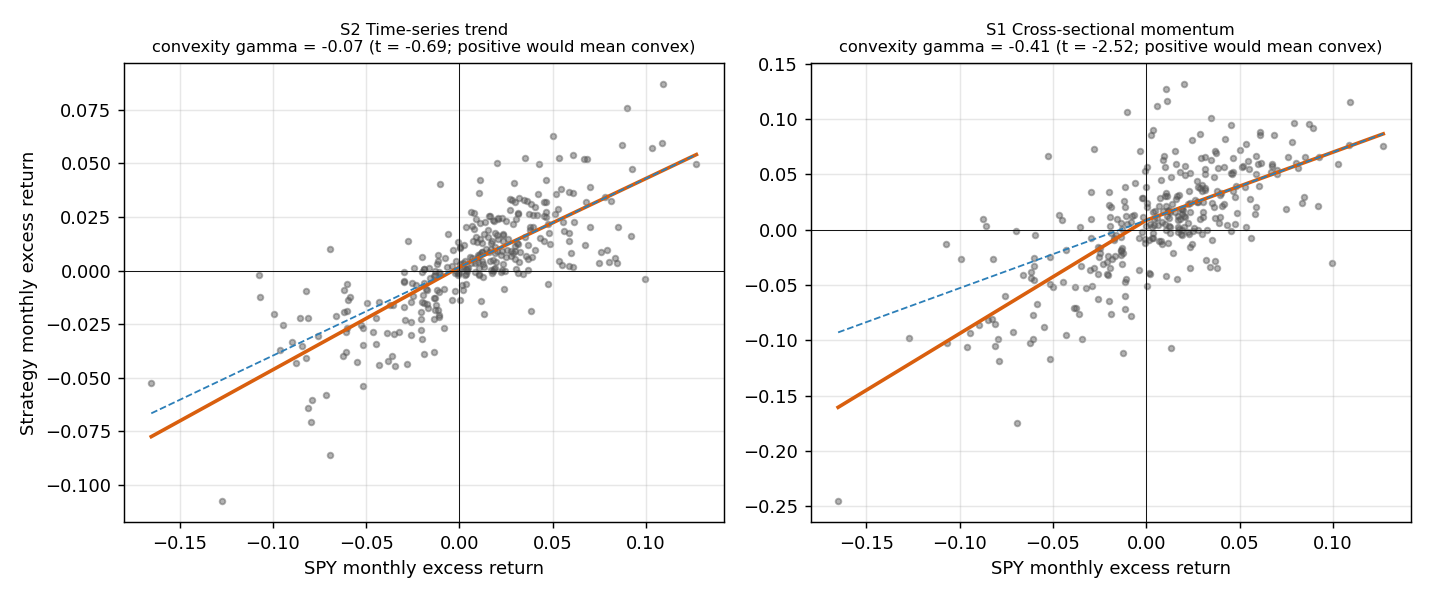
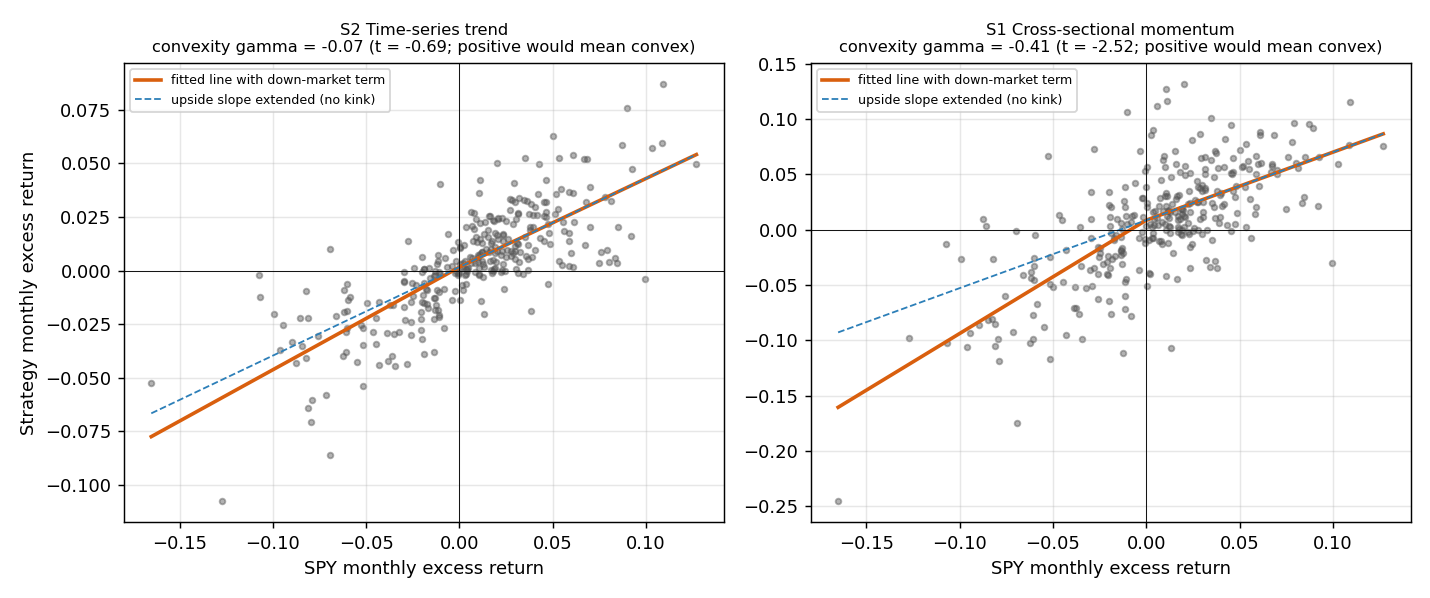
Regime study: add legend and post-hoc robustness check for S1 anti-convexity

Changed region(s): [[0.5538, 0.0903, 0.7692, 0.2107], [0.0923, 0.0903, 0.2769, 0.2107]]

diff --git a/analysis/make_regime_note.py b/analysis/make_regime_note.py
@@ -58,6 +58,23 @@ for name in ("S1", "S2", "B1", "B2c"):
     r = mon[f"confirmatory:{name}"].dropna(); f = fl.reindex(r.index).fillna(False)
     ctx[name] = (np.prod(1 + r) - 1, np.prod(1 + r[f]) - 1, np.prod(1 + r[~f]) - 1)
 
+from analysis.factor_attribution import ols_hac
+_rf = pd.read_csv(os.path.join(ROOT, "data", "ff_factors_daily.csv"), index_col=0, parse_dates=True)["RF"] / 100
+_rfm = monthly_rf(_rf)
+_ex = pd.read_csv(os.path.join(ROOT, "data", "prices_etf.csv"), index_col=0, parse_dates=True)
+_spy = pd.concat([month_end(pre["SPY"]).pct_change(), month_end(_ex["SPY"]).pct_change()])
+_spy = _spy[~_spy.index.duplicated(keep="last")]
+
+def gamma_pooled(sid, drop_worst=0):
+    y = pd.concat([mon[f"confirmatory:{sid}"], mon[f"exploratory:{sid}"]]).dropna()
+    y = y[~y.index.duplicated()]
+    d = pd.concat([y - _rfm.reindex(y.index), _spy.reindex(y.index) - _rfm.reindex(y.index)], axis=1).dropna()
+    d.columns = ["y", "x"]
+    d = d.drop(index=d["x"].sort_values().index[:drop_worst])
+    r = ols_hac(d["y"].values, np.column_stack([d["x"], np.maximum(-d["x"], 0)]), 3)
+    return r["beta"][2], r["t"][2]
+
+rob = {k: gamma_pooled("S1", k) for k in (0, 1, 3)}
 p_s1 = h1[(h1.strategy == "S1") & (h1["sample"] == "pooled")].iloc[0]
 p_s3d = h2[(h2.strategy == "S3") & (h2["sample"] == "pooled")].iloc[0]
 p_s4d = h2[(h2.strategy == "S4") & (h2["sample"] == "pooled")].iloc[0]
@@ -132,7 +149,7 @@ So S2 limited losses relative to SPY during the dot-com bust but did about as we
 
 1. **S2 was defensive, not convex.** Its monthly volatility in bear months was {pc(vol('confirmatory','S2',True)['std'])} (confirmatory) and {pc(vol('exploratory','S2',True)['std'])} (exploratory), against {pc(vol('confirmatory','B1',True)['std'])} and {pc(vol('exploratory','B1',True)['std'])} for SPY, and its worst bear-month loss was far smaller ({pc(vol('confirmatory','S2',True)['worst'])} and {pc(vol('exploratory','S2',True)['worst'])} against {pc(vol('confirmatory','B1',True)['worst'])} and {pc(vol('exploratory','B1',True)['worst'])} for SPY). Relative to a 60/40 cash portfolio it was about the same in the confirmatory bear months and worse in the exploratory ones.
 2. **A plausible but untested explanation:** a monthly rebalance on a 12-1 month signal reacts slowly, so it may exit only after much of a fast decline has happened, which would fit the absence of convexity. I did not test this.
-3. **Post-results observation (not pre-registered): the cross-sectional momentum strategies look anti-convex.** For S1, S3 and S4 the down-market coefficient is about -0.4 in every sample (pooled t = {p_s1.t_gamma:+.2f} for S1), i.e. they lose more per unit of market decline when the market is falling than they gain when it rises. In the pooled sample their active return in bear months is also lower than in other months (S3 D = {pc(p_s3d.D)} with a 95% interval of [{pc(p_s3d.ci_low)}, {pc(p_s3d.ci_high)}], S4 D = {pc(p_s4d.D)} with [{pc(p_s4d.ci_low)}, {pc(p_s4d.ci_high)}]). This is consistent with the "momentum crash" literature (Daniel and Moskowitz, 2016). The study reports 12 H1 and 12 H2 strategy-sample combinations in total, so treat it as a hypothesis for a future pre-registered study, not a finding.
+3. **Post-results observation (not pre-registered): the cross-sectional momentum strategies look anti-convex.** For S1, S3 and S4 the down-market coefficient is about -0.4 in every sample (pooled t = {p_s1.t_gamma:+.2f} for S1), i.e. they lose more per unit of market decline when the market is falling than they gain when it rises. In the pooled sample their active return in bear months is also lower than in other months (S3 D = {pc(p_s3d.D)} with a 95% interval of [{pc(p_s3d.ci_low)}, {pc(p_s3d.ci_high)}], S4 D = {pc(p_s4d.D)} with [{pc(p_s4d.ci_low)}, {pc(p_s4d.ci_high)}]). This is consistent with the "momentum crash" literature (Daniel and Moskowitz, 2016). The study reports 12 H1 and 12 H2 strategy-sample combinations in total, so treat it as a hypothesis for a future pre-registered study, not a finding. Post-hoc robustness check: excluding October 2008 (S1 lost 24.6% when SPY fell 16.5%) moves S1's coefficient from {rob[0][0]:+.2f} (t = {rob[0][1]:+.2f}; this check uses the 316 months with complete data, hence the small difference from the table above) to {rob[1][0]:+.2f} (t = {rob[1][1]:+.2f}), and excluding the three worst SPY months gives {rob[3][0]:+.2f} (t = {rob[3][1]:+.2f}). The sign is stable, but the significance is borderline and leans on a few crisis months.
 
 ## Limitations
 
@@ -166,8 +183,9 @@ for ax, sid in zip(axes, ["S2", "S1"]):
     c = np.linalg.lstsq(A, d["y"].values, rcond=None)[0]
     xs = np.linspace(d["x"].min(), d["x"].max(), 200)
     ax.scatter(d["x"], d["y"], s=10, alpha=0.45, color="#555555")
-    ax.plot(xs, c[0] + c[1] * xs + c[2] * np.maximum(-xs, 0), color="#d95f0e", lw=2)
-    ax.plot(xs, c[0] + c[1] * xs, color="#2c7fb8", lw=1, ls="--")
+    ax.plot(xs, c[0] + c[1] * xs + c[2] * np.maximum(-xs, 0), color="#d95f0e", lw=2, label="fitted line with down-market term")
+    ax.plot(xs, c[0] + c[1] * xs, color="#2c7fb8", lw=1, ls="--", label="upside slope extended (no kink)")
+    ax.legend(fontsize=7, loc="upper left")
     ax.axhline(0, color="k", lw=0.5); ax.axvline(0, color="k", lw=0.5)
     row = h1[(h1.strategy == sid) & (h1["sample"] == "pooled")].iloc[0]
     ax.set_title(f"{NICE[sid]}\nconvexity gamma = {row.gamma:+.2f} (t = {row.t_gamma:+.2f}; positive would mean convex)", fontsize=9)

diff --git a/research/regime_study_results.md b/research/regime_study_results.md
@@ -110,7 +110,7 @@ So S2 limited losses relative to SPY during the dot-com bust but did about as we
 
 1. **S2 was defensive, not convex.** Its monthly volatility in bear months was 1.43% (confirmatory) and 2.09% (exploratory), against 5.33% and 6.93% for SPY, and its worst bear-month loss was far smaller (-3.24% and -5.23% against -10.18% and -16.20% for SPY). Relative to a 60/40 cash portfolio it was about the same in the confirmatory bear months and worse in the exploratory ones.
 2. **A plausible but untested explanation:** a monthly rebalance on a 12-1 month signal reacts slowly, so it may exit only after much of a fast decline has happened, which would fit the absence of convexity. I did not test this.
-3. **Post-results observation (not pre-registered): the cross-sectional momentum strategies look anti-convex.** For S1, S3 and S4 the down-market coefficient is about -0.4 in every sample (pooled t = -2.52 for S1), i.e. they lose more per unit of market decline when the market is falling than they gain when it rises. In the pooled sample their active return in bear months is also lower than in other months (S3 D = -1.14% with a 95% interval of [-2.17%, -0.05%], S4 D = -1.02% with [-1.88%, -0.08%]). This is consistent with the "momentum crash" literature (Daniel and Moskowitz, 2016). The study reports 12 H1 and 12 H2 strategy-sample combinations in total, so treat it as a hypothesis for a future pre-registered study, not a finding.
+3. **Post-results observation (not pre-registered): the cross-sectional momentum strategies look anti-convex.** For S1, S3 and S4 the down-market coefficient is about -0.4 in every sample (pooled t = -2.52 for S1), i.e. they lose more per unit of market decline when the market is falling than they gain when it rises. In the pooled sample their active return in bear months is also lower than in other months (S3 D = -1.14% with a 95% interval of [-2.17%, -0.05%], S4 D = -1.02% with [-1.88%, -0.08%]). This is consistent with the "momentum crash" literature (Daniel and Moskowitz, 2016). The study reports 12 H1 and 12 H2 strategy-sample combinations in total, so treat it as a hypothesis for a future pre-registered study, not a finding. Post-hoc robustness check: excluding October 2008 (S1 lost 24.6% when SPY fell 16.5%) moves S1's coefficient from -0.41 (t = -2.54; this check uses the 316 months with complete data, hence the small difference from the table above) to -0.31 (t = -1.95), and excluding the three worst SPY months gives -0.39 (t = -2.24). The sign is stable, but the significance is borderline and leans on a few crisis months.
 
 ## Limitations
 
